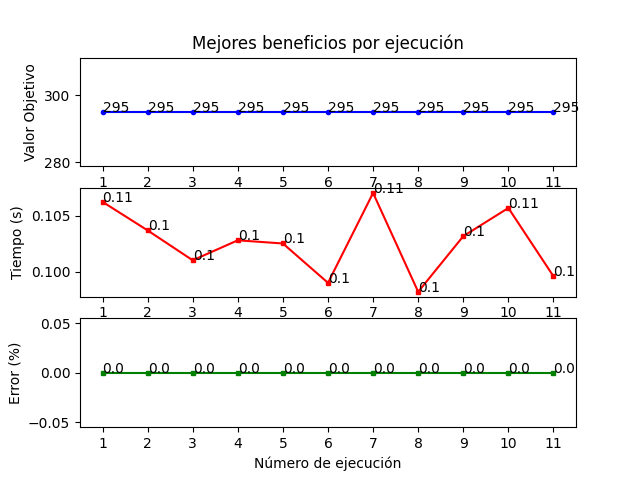
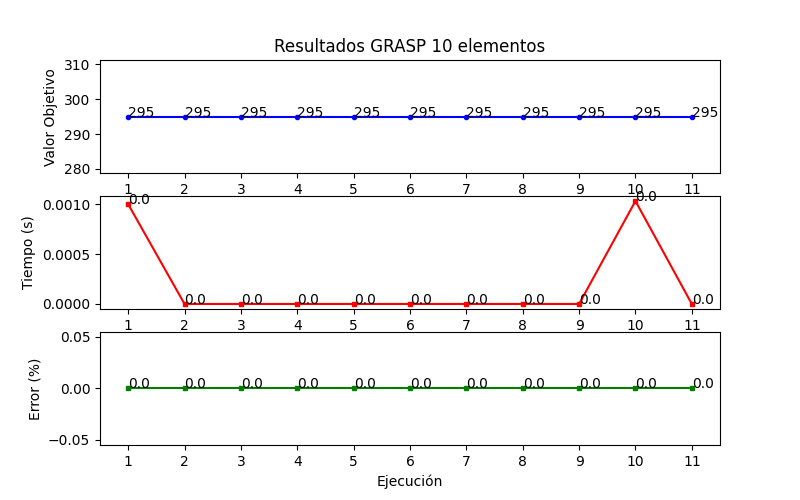
graficos finales grasp

diff --git a/main.py b/main.py
@@ -42,20 +42,29 @@ if __name__ == "__main__":
             timesInstance = [0] * 11
             errorsInstance = [0] * 11
             benefitsInstance = [0] * 11
+            allBenefits = []
 
             capacity, opt, benefits, weights = getDataInstance(instance)
 
-            print(len(weights))
-
             for i in range(11):
-                print(len(weights), i + 1)
+
                 start = time.time()
-                solution, benefit, iterations = grasp(benefits, weights, capacity)
+                solution, benefit, iterations, benefitsIterations = grasp(benefits, weights, capacity)
                 timesInstance[i] = time.time() - start
+                
                 benefitsInstance[i] = benefit
                 errorsInstance[i] = abs(benefit - opt) / opt
-            graficarTres(benefitsInstance, timesInstance, errorsInstance,'GRASP',weights)
+                allBenefits = allBenefits + benefitsIterations
+
+            graficar(allBenefits, max(allBenefits), 'GRASP', str(len(weights)))
+            plt.savefig('./graficos/grasp/convergencia'+str(len(weights))+"_GRASP")
+            graficarTres(benefitsInstance, timesInstance, errorsInstance,'GRASP', str(len(weights)))
             plt.savefig('./graficos/grasp/'+str(len(weights))+"_GRASP")
+
+            series = pd.Series(benefitsInstance)
+            print('Estadísticas de '+str(len(weights)))
+            print(series.describe())
+            
         plt.show()
         
     elif opcion  == '2':

diff --git a/funciones/GRASP.py b/funciones/GRASP.py
@@ -99,22 +99,28 @@ def localSearch(initialSol, benefits, weights, capacity):
 
     return solution, maxBenefit
 
-def grasp(benefits, weights, capacity, maxIterations = 10000, coef = 0.7):
+def grasp(benefits, weights, capacity, maxIterations = 10000, coef = 0.6):
 
     maxBenefit = -1
     iterations = 0
+    benefitsIterations =  []
+    noImprovement = len(weights) * coef
 
-    while maxIterations != iterations:
+    while maxIterations != iterations and noImprovement > 0:
 
         iterations += 1
         auxSol = greedyRandomized(benefits, weights, capacity, coef)
         auxSol, auxBenefit = localSearch(auxSol, benefits, weights, capacity)
 
         if auxBenefit > maxBenefit:
+            noImprovement = len(weights) * coef
             solution = auxSol[:]
             maxBenefit = auxBenefit
+        else:
+            noImprovement -= 1
 
-    return solution, maxBenefit, iterations
+        benefitsIterations.append(maxBenefit)
+    return solution, maxBenefit, iterations, benefitsIterations
 
 # if __name__ == "__main__":
 

diff --git a/funciones/graph.py b/funciones/graph.py
@@ -5,7 +5,7 @@ def graficar(listaMejores, mejorObjetivo, algoritmo, cantidad):
     graficoMejores = plt.plot(listaMejores)
     plt.setp(graficoMejores,"linestyle","-","marker","s","color","b","markersize","2")
     plt.title(u"Curva de convergencia Knapsack 0-1 "+algoritmo+' '+cantidad+' elementos') 
-    plt.ylabel(u"Valor objetivo") 
+    plt.ylabel(u"Valor obtenido") 
     plt.xlabel(('Mejor beneficio encontrado : ' + str(mejorObjetivo)))
     return True
 
